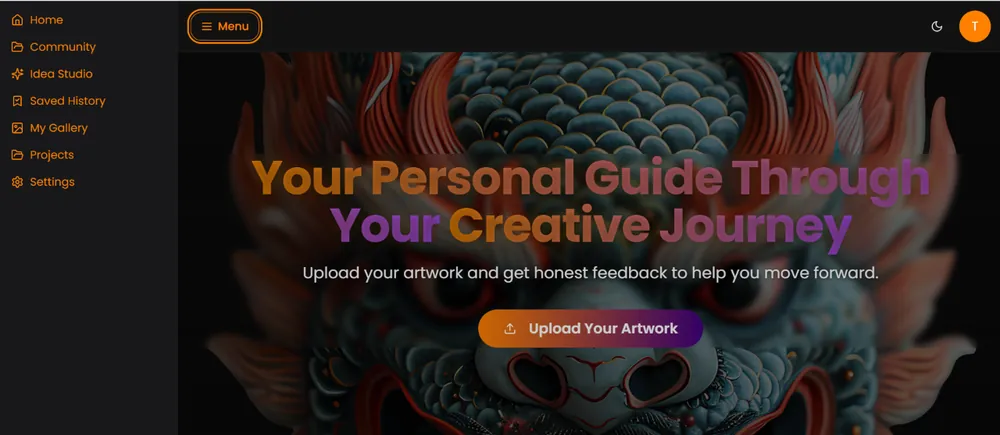
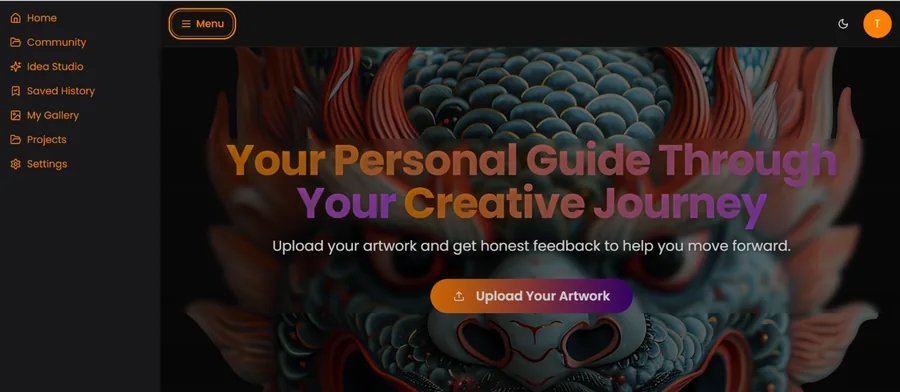
Reframe and re-light project card images
Overlay: replaces the full-card burgundy wash (rgba(107,31,46,.25) ->
rgba(46,12,18,.82) over the whole card) with a neutral bottom scrim —
fully transparent to 45%, then rgba(15,8,12,.62) at 70% and .88 at the
bottom edge. No burgundy tint, so screenshot colour reads true; the top
45% of every card is untouched. Applies to all four cards.

Reframing: `object-position` cannot move these images vertically. Every
screenshot is wider than the 4/5 card (ratios 1.9-2.7 vs 0.8), so cover
scales by height — full image height always shows and only the width is
cropped. `center bottom` / `center top` are no-ops here. Vertical
framing is therefore baked into the source crops instead:

- MollyColor: cropped to the dragon's coral fins, below the "Living
  Colors" headline. Warm colour now reads true against the neutral scrim.
- Developer work: cropped to the nav bar's identity mark and the
  portrait. The nav+heading framing put the site's own body copy
  directly under the card title and read as text-on-text.
- MollyFinishArt: full-width shot kept, framed left so the sidebar nav
  sits above the title and the marketing headline stays out of frame.
  The "Upload Your Artwork" button sits in the bottom 21% of the source
  while the mobile card's text block covers its bottom 56%, so the
  button cannot clear the title at 375px.
- Mollavie: image unchanged.

Measured against the rendered page with text hidden: worst title
contrast 9.20:1 (needs 3.0), worst subhead 10.06:1 (needs 4.5).

diff --git a/src/data/projects.ts b/src/data/projects.ts
@@ -9,9 +9,9 @@ export interface Project {
   /** null = no screenshot yet; the card falls back to a burgundy gradient */
   imageSrc: string | null;
   /**
-   * `object-position` for the card image. Cards crop wide screenshots to a
-   * narrow portrait slice, so shots whose subject sits off-centre need
-   * steering. Omit to keep the default centre crop.
+   * `object-position` for the card image. Cards show the image's full height
+   * and crop its width, so this steers which horizontal slice is kept. Omit
+   * where the image is already cropped to the intended framing.
    */
   imagePosition?: string;
 }
@@ -31,8 +31,8 @@ export const projects: Project[] = [
       'AI art coaching app — chatbot art teacher, idea generator, project management, and community for artists.',
     url: 'https://play.google.com/store/apps/details?id=app.lovable.mollyfinishart&pcampaignid=web_share',
     imageSrc: '/projects/mollyfinishart.webp',
-    // centre crop slices the headline mid-word; the left edge keeps the app's
-    // sidebar nav intact
+    // full-width shot: keep the left edge so the sidebar nav sits above the
+    // title and the marketing headline stays out of frame
     imagePosition: 'left',
   },
   {
@@ -48,7 +48,5 @@ export const projects: Project[] = [
     tagline: "Mirjana's software development portfolio.",
     url: 'https://mirjana-cale-portfolio.vercel.app/index.html#projects',
     imageSrc: '/projects/developer.webp',
-    // centre crop drops the portrait entirely and lands on body copy
-    imagePosition: 'left',
   },
 ];

diff --git a/src/styles/global.css b/src/styles/global.css
@@ -728,13 +728,25 @@ section {
 .project-overlay {
   position: absolute;
   inset: 0;
-  background: linear-gradient(180deg, rgba(107, 31, 46, 0.25) 0%, rgba(46, 12, 18, 0.82) 100%);
+  background: linear-gradient(
+    180deg,
+    rgba(15, 8, 12, 0) 0%,
+    rgba(15, 8, 12, 0) 45%,
+    rgba(15, 8, 12, 0.62) 70%,
+    rgba(15, 8, 12, 0.88) 100%
+  );
   transition: background 250ms ease-out;
 }
 
 .project-card:hover .project-overlay,
 .project-card:focus-visible .project-overlay {
-  background: linear-gradient(180deg, rgba(107, 31, 46, 0.1) 0%, rgba(46, 12, 18, 0.66) 100%);
+  background: linear-gradient(
+    180deg,
+    rgba(15, 8, 12, 0) 0%,
+    rgba(15, 8, 12, 0) 45%,
+    rgba(15, 8, 12, 0.48) 70%,
+    rgba(15, 8, 12, 0.72) 100%
+  );
 }
 
 .project-card:focus-visible {
